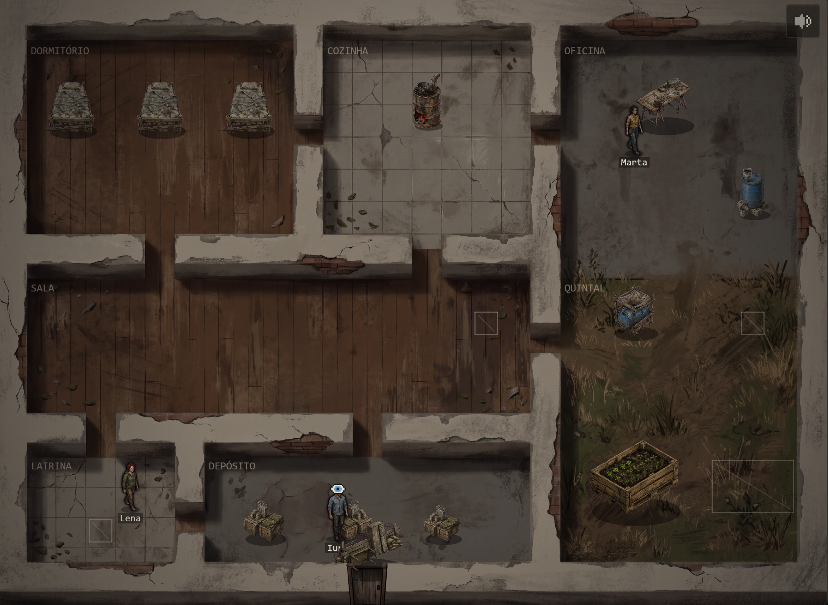
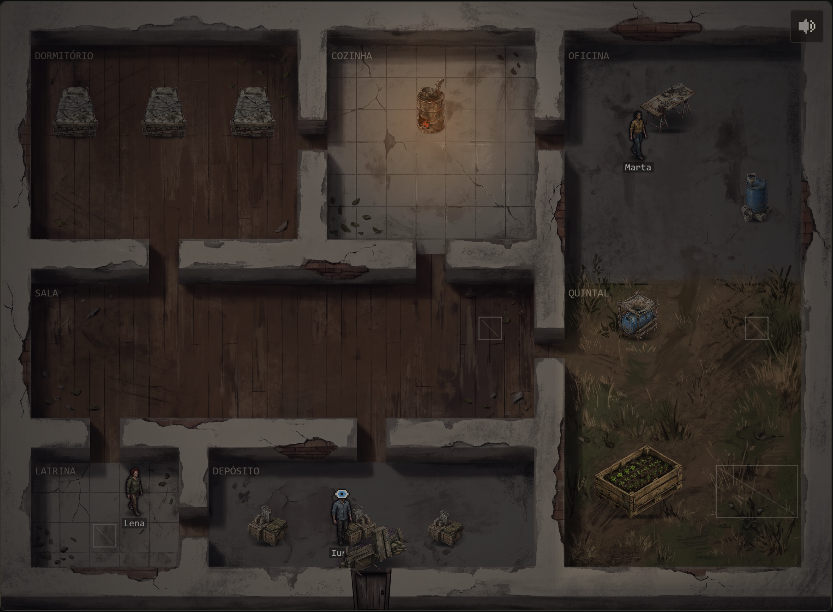
Cenário assentado: sombras de contato, casa escura de dia e poeira no ar
- Objetos e pessoas ganham sombra macia debaixo da base, em vez de uma elipse
  dura abaixo dela, que fazia mesa, coletor e horta parecerem flutuar
- De dia o interior fica mais escuro que o quintal, que é a céu aberto;
  o fogão aceso ilumina a cozinha também de dia; à noite o quintal tem a lua
- Poeira flutuando dentro de casa

diff --git a/src/game/ShelterScene.ts b/src/game/ShelterScene.ts
@@ -4,7 +4,7 @@ import type { ShelterState, ShelterSurvivor } from '../sim/shelter/types';
 import { TILE, WALL_H, box, enablePan, feet, rowDepth, setupObliqueCamera, wall } from './oblique';
 import { artUrl } from './art';
 import { ensureIcon, iconFor } from './icons';
-import { NightLight, makeRain, type LightSource } from './night';
+import { NightLight, makeRain, softShadow, type LightSource, type OpenArea } from './night';
 import { Actor, preloadBodies, survivorLook, type Pose } from './sprites';
 
 const W = 28;
@@ -203,6 +203,25 @@ export class ShelterScene extends Phaser.Scene {
     this.time.addEvent({ delay: 170, loop: true, callback: () => this.night.flicker() });
     // Chuva no quintal, a única parte da casa sem telhado.
     this.rain = makeRain(this, 19 * TILE, 8 * TILE, 27 * TILE, 18 * TILE);
+    // Poeira flutuando dentro de casa: quase invisível, mas tira a sensação de quadro parado.
+    if (!this.textures.exists('mote')) {
+      const g = this.make.graphics({ x: 0, y: 0 }, false);
+      g.fillStyle(0xf3dcb0).fillCircle(2, 2, 2);
+      g.generateTexture('mote', 4, 4);
+      g.destroy();
+    }
+    this.add
+      .particles(0, 0, 'mote', {
+        x: { min: TILE, max: 18 * TILE },
+        y: { min: TILE, max: 18 * TILE },
+        lifespan: 7000,
+        speedX: { min: -3, max: 3 },
+        speedY: { min: -4, max: 1 },
+        scale: { min: 0.15, max: 0.4 },
+        alpha: { values: [0, 0.35, 0] },
+        frequency: 260,
+      })
+      .setDepth(90000);
     this.onReady();
   }
 
@@ -215,7 +234,11 @@ export class ShelterScene extends Phaser.Scene {
     this.drawHouse(s);
     this.drawPeople(s);
     const h = hourOfDay(s.hour);
-    this.night.set(isNight(h) ? 0.68 : h === 20 || h === 6 ? 0.38 : 0, this.lightSources(s));
+    // De dia a casa é mais escura que o quintal, que não tem telhado; à noite o quintal tem só a lua.
+    const dusk = h === 20 || h === 6;
+    const yard: OpenArea = { x: 19 * TILE, y: 9 * TILE, w: 8 * TILE, h: 10 * TILE, amount: isNight(h) ? 0.3 : dusk ? 0.55 : 0.9 };
+    const day = !isNight(h) && !dusk;
+    this.night.set(isNight(h) ? 0.68 : dusk ? 0.45 : 0.3, day ? this.lightSources(s).filter((l) => l.fire) : this.lightSources(s), [yard]);
     if (this.rain.emitting !== s.raining) s.raining ? this.rain.start() : this.rain.stop();
   }
 
@@ -261,7 +284,15 @@ export class ShelterScene extends Phaser.Scene {
     const img = this.add.image(cx, baseY, key).setOrigin(0.5, 1).setDepth(rowDepth(row, 6)).setTint(0xcbc4b8);
     img.setScale((widthTiles * TILE) / img.width);
     this.decor.push(img);
-    this.floor.fillStyle(0x000000, 0.4).fillEllipse(cx + 2, baseY - 2, widthTiles * TILE, Math.max(8, widthTiles * TILE * 0.32));
+    // Sombra de contato debaixo do objeto, não abaixo dele: a mancha ocupa a "pegada" no chão,
+    // que na vista de cima é a metade de baixo da imagem. Uma faixa mais escura cola a base.
+    const w = widthTiles * TILE;
+    const footprint = Math.min(img.displayHeight * 0.55, w * 0.6);
+    const shadow = softShadow(this);
+    this.decor.push(
+      this.add.image(cx + 1, baseY - footprint * 0.45, shadow).setDisplaySize(w * 1.12, footprint * 1.1).setAlpha(0.6).setDepth(2),
+      this.add.image(cx, baseY - 2, shadow).setDisplaySize(w * 0.85, 6).setAlpha(0.55).setDepth(2),
+    );
     return img;
   }
 
@@ -428,9 +459,10 @@ export class ShelterScene extends Phaser.Scene {
 
   /** Onde há luz à noite: fogão aceso, rádio, bancada, e um lampião na sala e outro no dormitório. */
   private lightSources(s: ShelterState): LightSource[] {
-    const at = (p: P, r: number): LightSource => ({ x: p[0] * TILE + TILE / 2, y: p[1] * TILE + TILE / 2, r });
+    const at = (p: P, r: number, fire = false): LightSource => ({ x: p[0] * TILE + TILE / 2, y: p[1] * TILE + TILE / 2, r, fire });
     const out = [at([8, 11], 150), at([5, 5], 95)];
-    if (s.buildings.stove) out.push(at(STATIONS.stove, 130));
+    // O fogão aceso ilumina a cozinha até de dia.
+    if (s.buildings.stove) out.push(at(STATIONS.stove, 130, true));
     if (s.buildings.radio) out.push(at(STATIONS.radio, 80));
     if (s.buildings.workbench) out.push(at(STATIONS.workbench, 70));
     return out;

diff --git a/src/game/night.ts b/src/game/night.ts
@@ -5,15 +5,48 @@ export interface LightSource {
   x: number;
   y: number;
   r: number;
+  /** Fogo: continua aceso de dia. */
+  fire?: boolean;
 }
 
 /** A noite: uma camada escura por cima de tudo, furada onde há fogo ou lampião. */
+/** Área a céu aberto: recebe luz do dia (ou da lua) mesmo com a casa escura. `amount` vai de 0 a 1. */
+export interface OpenArea {
+  x: number;
+  y: number;
+  w: number;
+  h: number;
+  amount: number;
+}
+
+/**
+ * Sombra de contato: uma mancha escura e macia, mais forte no meio. É o que "assenta"
+ * objetos e pessoas no chão, sem sombra direcional (que brigaria com a luz pintada).
+ */
+export function softShadow(scene: Phaser.Scene): string {
+  const key = 'soft-shadow';
+  if (scene.textures.exists(key)) return key;
+  const tex = scene.textures.createCanvas(key, 128, 64)!;
+  const ctx = tex.getContext();
+  ctx.translate(64, 32);
+  ctx.scale(1, 0.5);
+  const g = ctx.createRadialGradient(0, 0, 0, 0, 0, 64);
+  g.addColorStop(0, 'rgba(0, 0, 0, 1)');
+  g.addColorStop(0.45, 'rgba(0, 0, 0, 0.75)');
+  g.addColorStop(1, 'rgba(0, 0, 0, 0)');
+  ctx.fillStyle = g;
+  ctx.fillRect(-64, -64, 128, 128);
+  tex.refresh();
+  return key;
+}
+
 export class NightLight {
   private tex: Phaser.Textures.CanvasTexture;
   private image: Phaser.GameObjects.Image;
   private last = '';
   private dark = 0;
   private sources: LightSource[] = [];
+  private open: OpenArea[] = [];
 
   constructor(
     scene: Phaser.Scene,
@@ -25,12 +58,13 @@ export class NightLight {
     this.image = scene.add.image(0, -WALL_H, key).setOrigin(0).setDepth(100000);
   }
 
-  set(dark: number, sources: LightSource[]): void {
-    const sig = `${dark}|${sources.map((s) => `${s.x},${s.y},${s.r}`).join(';')}`;
+  set(dark: number, sources: LightSource[], open: OpenArea[] = []): void {
+    const sig = `${dark}|${sources.map((s) => `${s.x},${s.y},${s.r}`).join(';')}|${open.map((o) => `${o.x},${o.y},${o.amount}`).join(';')}`;
     if (sig === this.last) return;
     this.last = sig;
     this.dark = dark;
     this.sources = sources;
+    this.open = open;
     this.paint(sources);
   }
 
@@ -50,6 +84,16 @@ export class NightLight {
       ctx.fillStyle = `rgba(4, 7, 15, ${dark})`;
       ctx.fillRect(0, 0, this.w, this.h);
       ctx.globalCompositeOperation = 'destination-out';
+      // Céu aberto: a escuridão some aos poucos na borda (camadas que se somam até o centro).
+      const STEPS = 6;
+      const FEATHER = 16;
+      for (const o of this.open) {
+        for (let i = 0; i < STEPS; i++) {
+          const grow = FEATHER * (1 - i / (STEPS - 1)) - FEATHER / 2;
+          ctx.fillStyle = `rgba(0, 0, 0, ${o.amount / STEPS})`;
+          ctx.fillRect(o.x - grow, o.y + WALL_H - grow, o.w + grow * 2, o.h + grow * 2);
+        }
+      }
       for (const s of sources) {
         const g = ctx.createRadialGradient(s.x, s.y + WALL_H, 0, s.x, s.y + WALL_H, s.r);
         g.addColorStop(0, 'rgba(0, 0, 0, 0.92)');

diff --git a/src/game/sprites.ts b/src/game/sprites.ts
@@ -1,6 +1,7 @@
 import Phaser from 'phaser';
 import type { ZombieKind } from '../data/zombies';
 import { artUrl } from './art';
+import { softShadow } from './night';
 import { shade } from './oblique';
 
 /**
@@ -332,7 +333,7 @@ export type Pose = 'stand' | 'bed' | 'floor';
 export class Actor {
   readonly container: Phaser.GameObjects.Container;
   private sprite: Phaser.GameObjects.Sprite;
-  private shadow: Phaser.GameObjects.Ellipse;
+  private shadow: Phaser.GameObjects.Image;
   private key: string;
   private view: View = 'down';
   private walking = false;
@@ -345,7 +346,7 @@ export class Actor {
   constructor(scene: Phaser.Scene, look: Look) {
     this.scene = scene;
     this.key = ensureLook(scene, look);
-    this.shadow = scene.add.ellipse(0, 0, look.build === 'big' ? 22 : 18, 6, 0x000000, 0.35);
+    this.shadow = scene.add.image(0, -1, softShadow(scene)).setDisplaySize(look.build === 'big' ? 26 : 21, 8).setAlpha(0.55);
     const front = `body-${look.paint}-front`;
     const back = `body-${look.paint}-back`;
     if (look.paint && scene.textures.exists(front) && scene.textures.exists(back)) {
